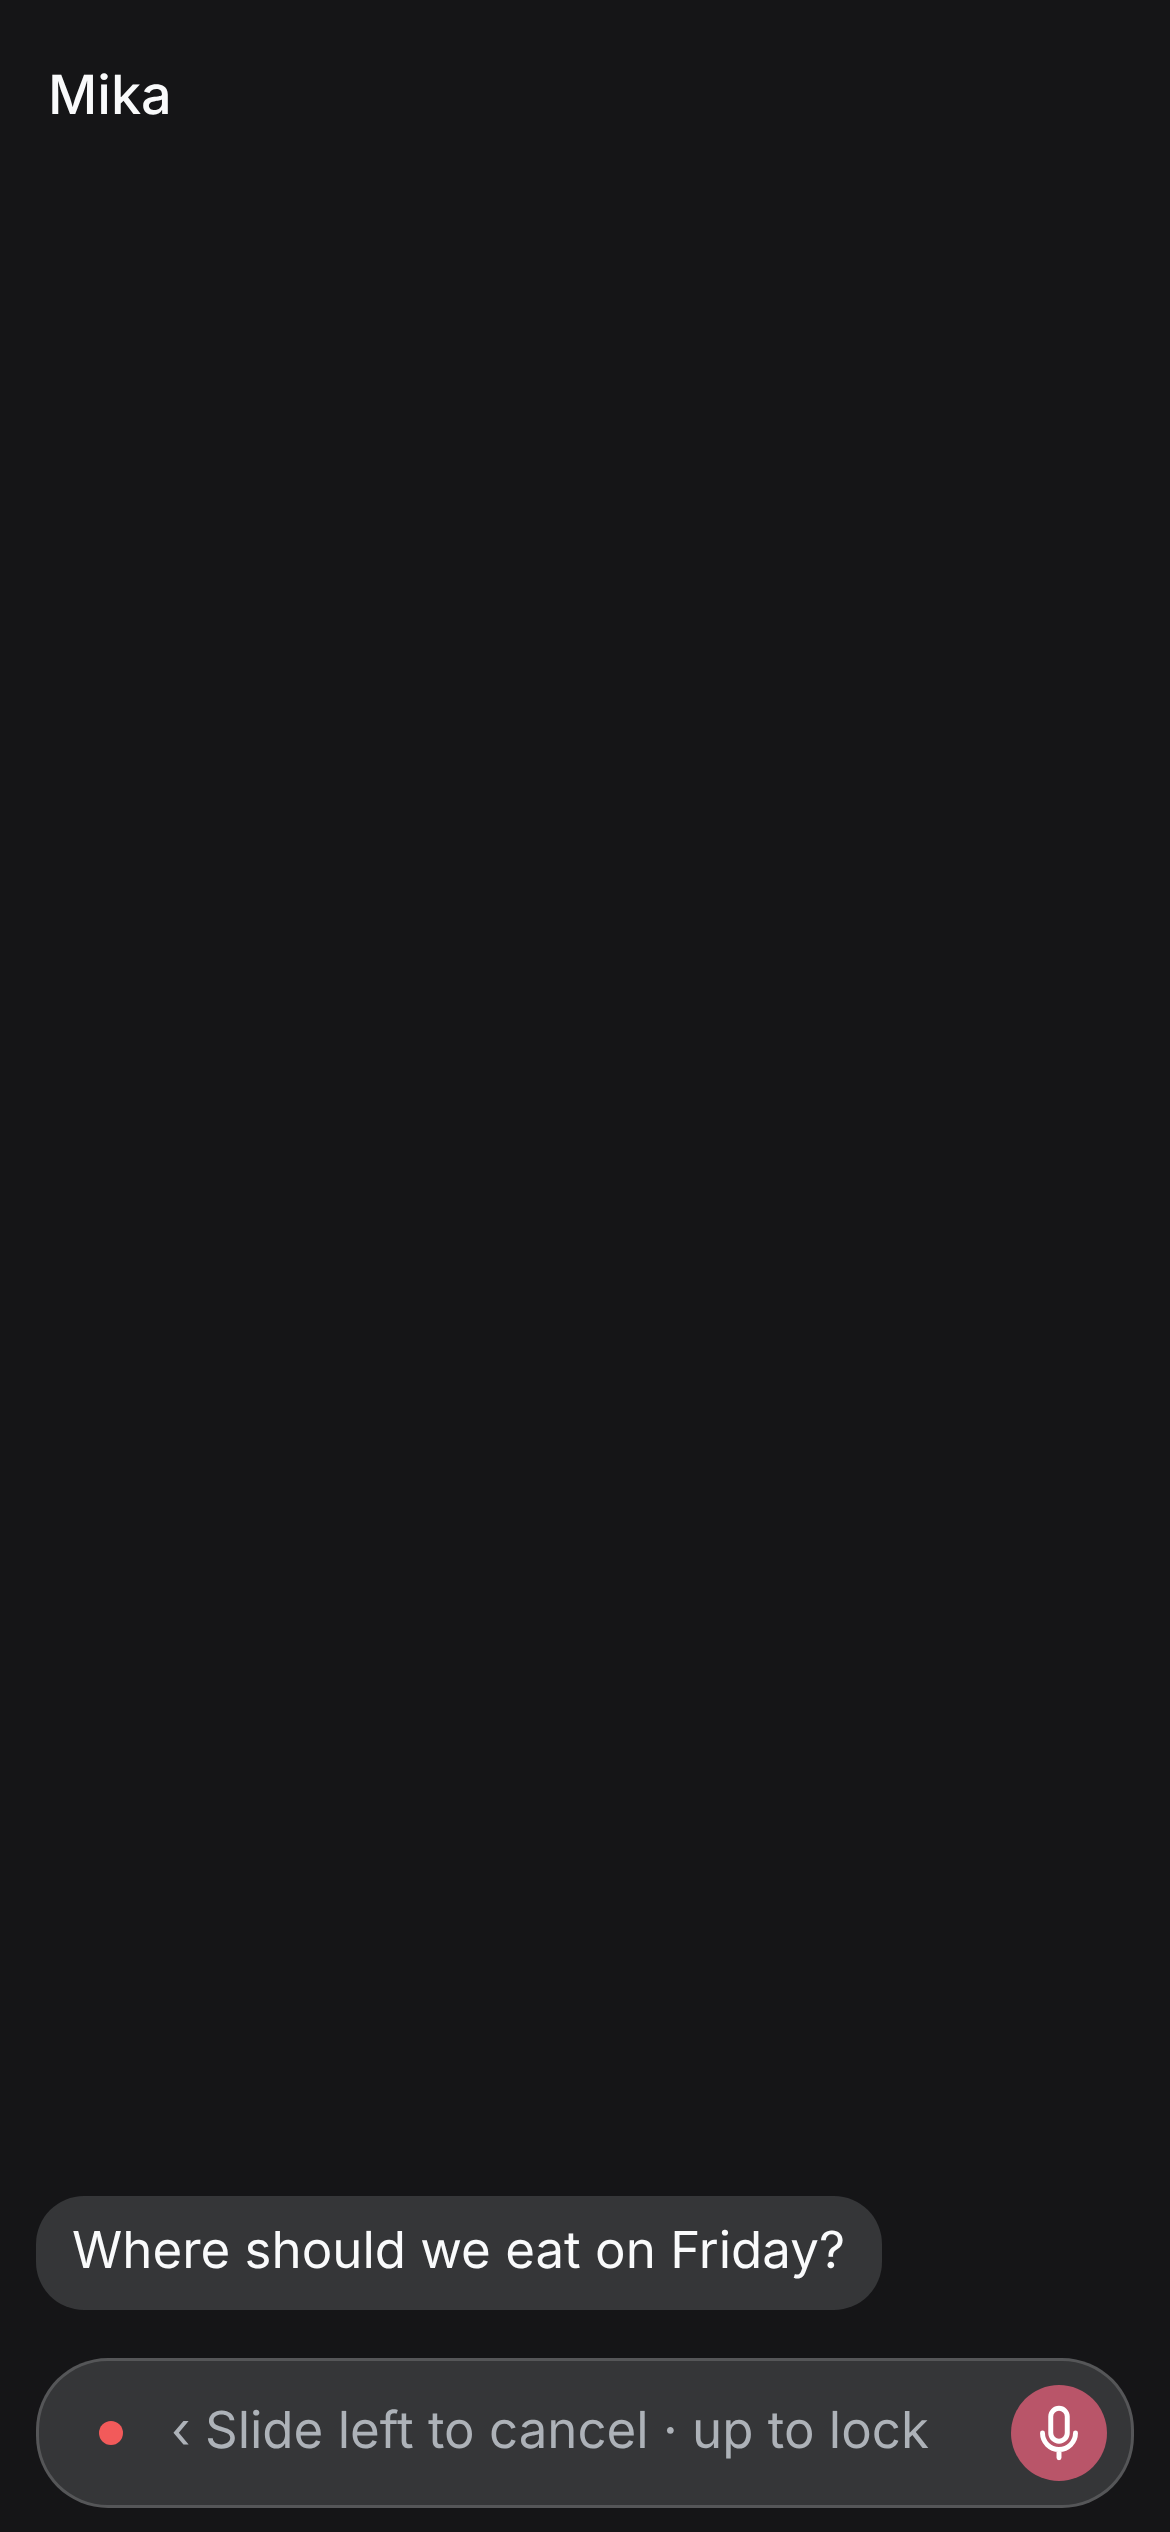
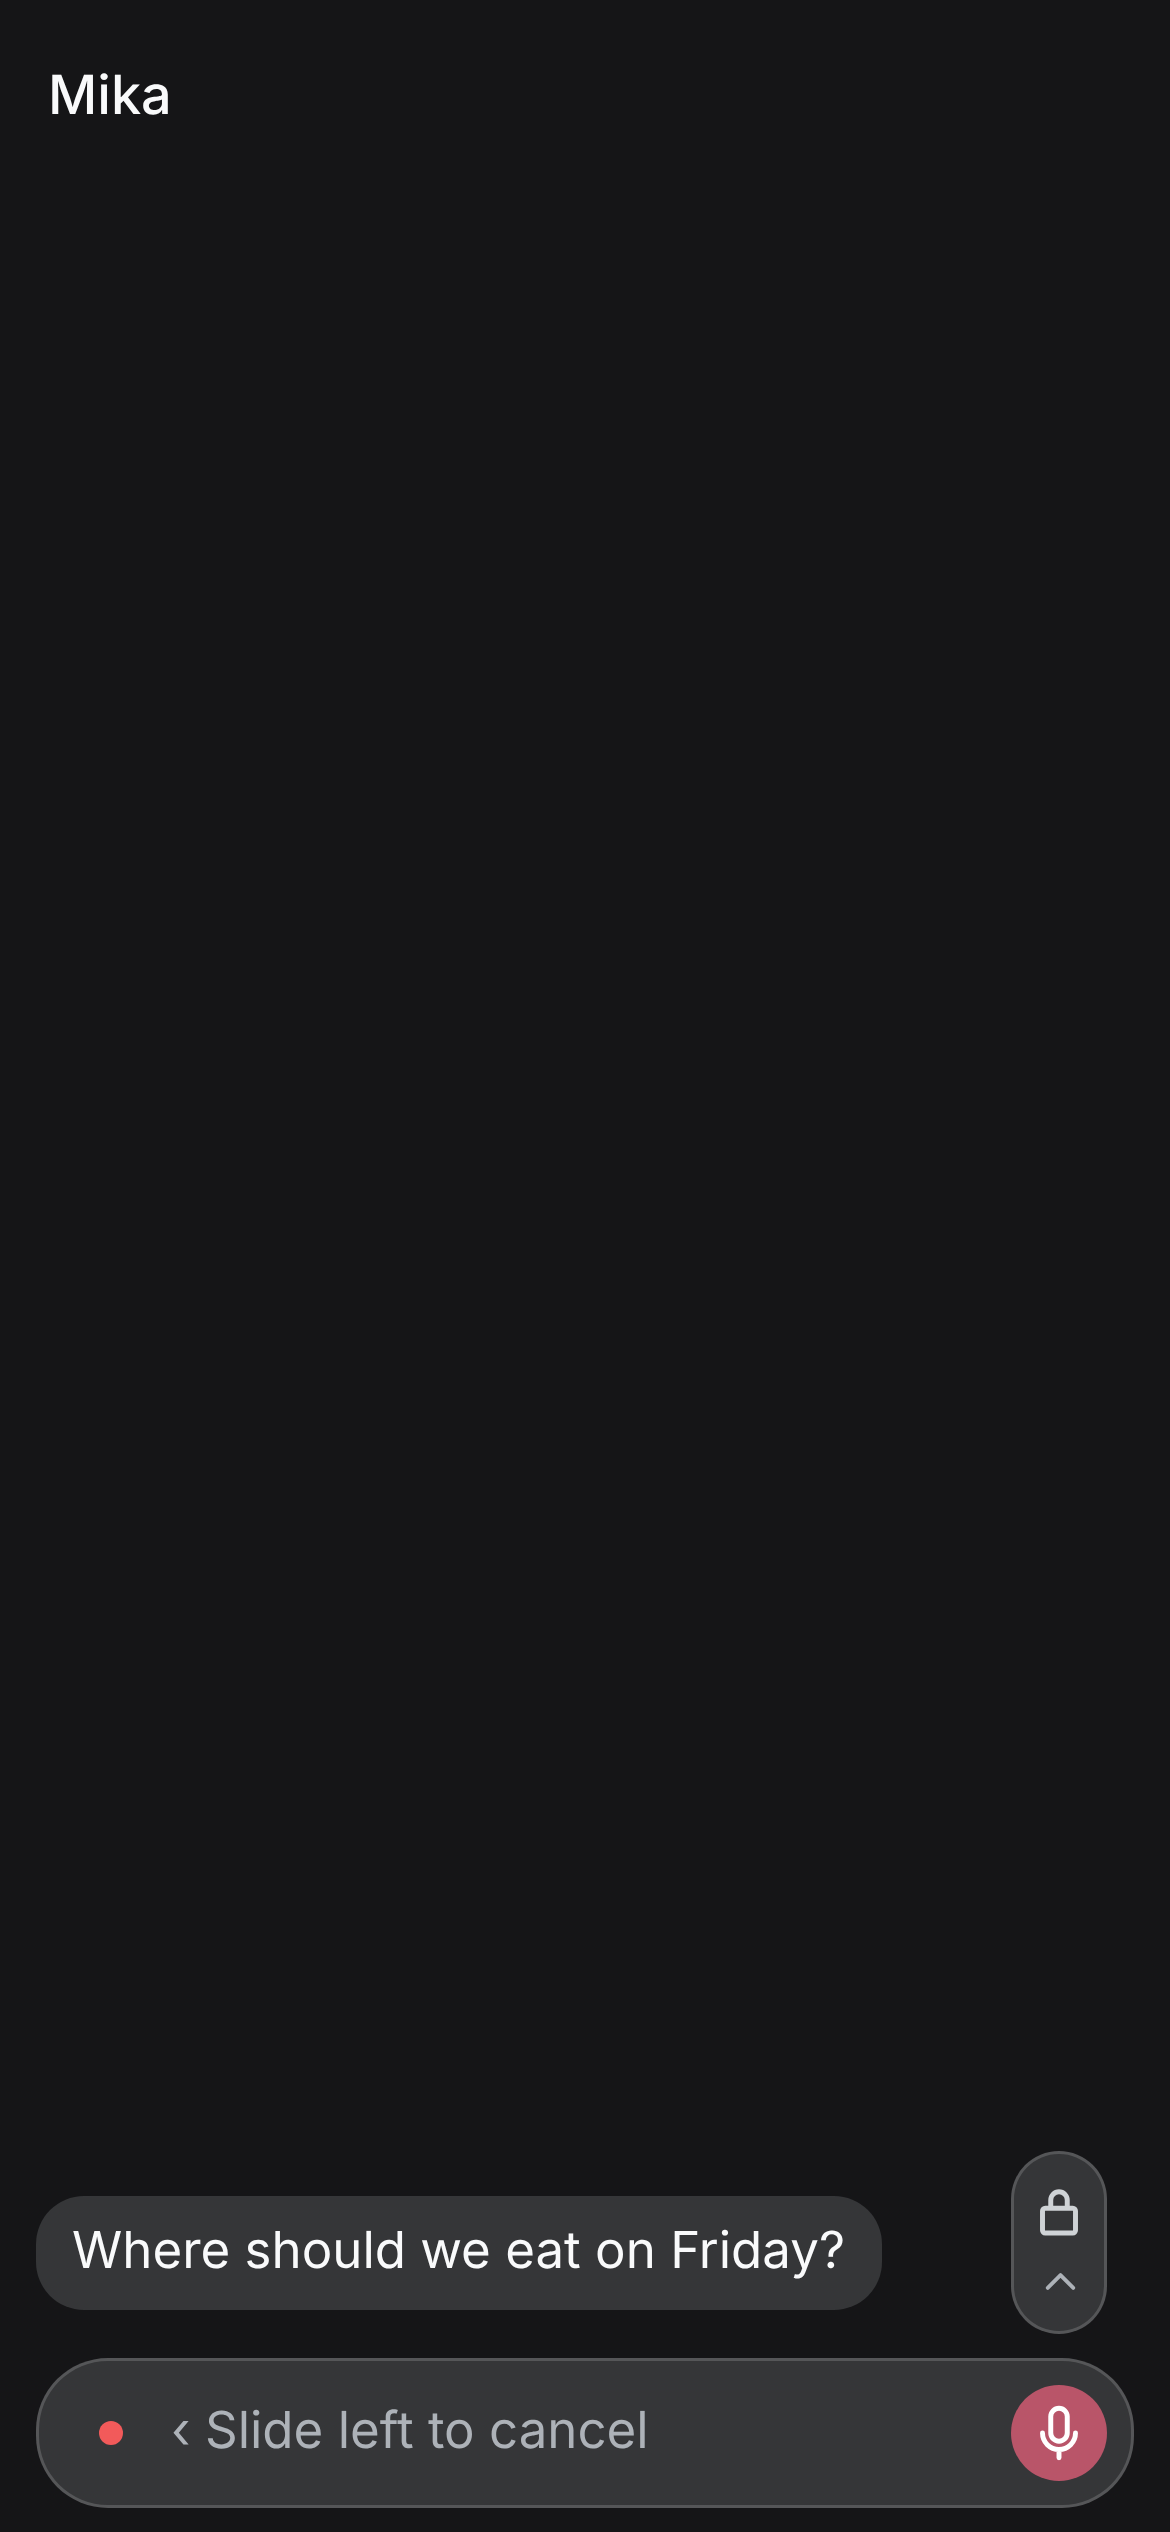
Stack the mobile composer when the text wraps, and show a lock while holding the mic
Like the web composer, the pill switches to the stacked layout (field on
top, a footer row of buttons) once the text no longer fits the one-row
width, measured with a hidden mirror of the text; the field keeps its
instance and focus across the switch. While the mic is held, a lock
pill appears above it, Telegram-style.

Refs #1643

Claude-Session: https://claude.ai/code/session_016S4hxfNPritG9nXakYYehX

Changed region(s): [[0.8615, 0.8424, 0.9538, 0.936], [0.7077, 0.936, 0.8, 0.9672], [0.5846, 0.936, 0.6769, 0.9672]]

diff --git a/apps/mobile/src/ui/chat/composer.tsx b/apps/mobile/src/ui/chat/composer.tsx
@@ -7,6 +7,7 @@ import {
   ScrollView,
   TextInput,
   View,
+  type ViewStyle,
 } from 'react-native';
 import { useSafeAreaInsets } from 'react-native-safe-area-context';
 
@@ -17,8 +18,10 @@ import { Text } from '../primitives/text';
 import {
   ArrowUpIcon,
   CameraIcon,
+  ChevronUpIcon,
   CloseIcon,
   FileIcon,
+  LockIcon,
   MicIcon,
   PhotoIcon,
   PlusIcon,
@@ -236,6 +239,31 @@ function HoldDot() {
   );
 }
 
+function LockHint({ style }: { style: ViewStyle }) {
+  const theme = useDesignTheme();
+  const size = theme.touch - space.x4;
+  return (
+    <View
+      style={[
+        style,
+        {
+          width: size,
+          paddingVertical: space.x3,
+          gap: space.x2,
+          alignItems: 'center',
+          borderRadius: radius.round,
+          borderWidth: edge.hairline,
+          borderColor: theme.color.borderStrong,
+          backgroundColor: theme.color.surface,
+        },
+      ]}
+    >
+      <LockIcon color={theme.color.muted} size={theme.type.title.line} />
+      <ChevronUpIcon color={theme.color.subtle} size={theme.type.body.size} />
+    </View>
+  );
+}
+
 function AttachMenu({ onPick }: { onPick(source: PickSource): void }) {
   const theme = useDesignTheme();
   return (
@@ -319,6 +347,8 @@ export function Composer({
   const [menu, setMenu] = useState(false);
   const [held, setHeld] = useState(false);
   const [contentHeight, setContentHeight] = useState(0);
+  const [pill, setPill] = useState({ width: 0, height: 0 });
+  const [wraps, setWraps] = useState(false);
   const lineHeight = theme.touch - space.x4;
   const inset = space.x3;
   const listening = dictating(dictation);
@@ -333,16 +363,25 @@ export function Composer({
     if (!menu) Keyboard.dismiss();
     setMenu(!menu);
   };
-  const stacked = composerStacked(actions, files.length);
+  const [lastStacked, setLastStacked] = useState(false);
+  const stacked = held ? lastStacked : composerStacked(actions, files.length, wraps);
+  if (stacked !== lastStacked) setLastStacked(stacked);
   const icon = theme.type.title.line;
+  const button = theme.touch - space.x4;
+  const compactWidth = pill.width - 2 * (inset + edge.hairline + button + space.x2);
   const leading = held ? (
-    <HoldDot />
+    <HoldDot key="lead" />
   ) : listening ? (
-    <RoundButton label={t.cancelDictation} filled={false} onPress={onCancelDictation}>
+    <RoundButton key="lead" label={t.cancelDictation} filled={false} onPress={onCancelDictation}>
       <CloseIcon color={theme.color.muted} size={icon} />
     </RoundButton>
   ) : canAttach ? (
-    <RoundButton label={menu ? t.closeAttach : t.attach} filled={false} onPress={toggleMenu}>
+    <RoundButton
+      key="lead"
+      label={menu ? t.closeAttach : t.attach}
+      filled={false}
+      onPress={toggleMenu}
+    >
       {menu ? (
         <CloseIcon color={theme.color.muted} size={icon} />
       ) : (
@@ -352,6 +391,7 @@ export function Composer({
   ) : null;
   const field = (
     <TextInput
+      key="field"
       value={value}
       onChangeText={onChange}
       onFocus={() => setMenu(false)}
@@ -370,7 +410,7 @@ export function Composer({
       editable={!listening}
       onContentSizeChange={(event) => setContentHeight(event.nativeEvent.contentSize.height)}
       style={{
-        flex: stacked ? undefined : 1,
+        flex: 1,
         height: Math.min(Math.max(contentHeight, lineHeight), theme.touch * 3),
         paddingVertical: (lineHeight - theme.type.body.line) / 2,
         paddingHorizontal: stacked || leading === null ? space.x3 : 0,
@@ -416,6 +456,12 @@ export function Composer({
           backgroundColor: theme.color.surface,
           overflow: 'hidden',
         }}
+        onLayout={(event) =>
+          setPill({
+            width: event.nativeEvent.layout.width,
+            height: event.nativeEvent.layout.height,
+          })
+        }
       >
         {files.length > 0 ? (
           <ScrollView
@@ -429,9 +475,13 @@ export function Composer({
             ))}
           </ScrollView>
         ) : null}
-        {stacked ? (
-          <View style={{ padding: inset }}>
+        <View style={{ padding: inset }}>
+          <View style={{ flexDirection: 'row', alignItems: 'flex-end', gap: space.x2 }}>
+            {stacked ? null : leading}
             {field}
+            {stacked ? null : trailing}
+          </View>
+          {stacked ? (
             <View
               style={{
                 flexDirection: 'row',
@@ -444,22 +494,31 @@ export function Composer({
               <View style={{ flex: 1 }} />
               {trailing}
             </View>
-          </View>
-        ) : (
-          <View
-            style={{
-              flexDirection: 'row',
-              alignItems: 'flex-end',
-              gap: space.x2,
-              padding: inset,
-            }}
+          ) : null}
+        </View>
+        {compactWidth > 0 ? (
+          <Text
+            variant="body"
+            accessibilityElementsHidden
+            importantForAccessibility="no-hide-descendants"
+            onLayout={(event) =>
+              setWraps(event.nativeEvent.layout.height > theme.type.body.line * 1.5)
+            }
+            style={{ position: 'absolute', opacity: 0, width: compactWidth, left: 0, top: 0 }}
           >
-            {leading}
-            {field}
-            {trailing}
-          </View>
-        )}
+            {value === '' ? ' ' : value}
+          </Text>
+        ) : null}
       </View>
+      {held ? (
+        <LockHint
+          style={{
+            position: 'absolute',
+            right: space.x4 + edge.hairline + inset,
+            bottom: Math.max(insets.bottom, space.x3) + pill.height + space.x3,
+          }}
+        />
+      ) : null}
       {menu && canAttach && !listening ? (
         <AttachMenu
           onPick={(source) => {

diff --git a/apps/mobile/src/ui/strings.ts b/apps/mobile/src/ui/strings.ts
@@ -121,7 +121,7 @@ const en = {
   cancelDictation: 'Cancel dictation',
   dictationStarting: 'Starting the microphone…',
   dictationListening: 'Listening…',
-  dictationHoldHint: '‹ Slide left to cancel · up to lock',
+  dictationHoldHint: '‹ Slide left to cancel',
   dictateHint: 'Tap to dictate, or hold to talk and release to stop.',
   dictationDenied:
     'DeepSeekBot cannot use the microphone or speech recognition. Allow both in the phone settings to dictate.',
@@ -309,7 +309,7 @@ const zh: typeof en = {
   cancelDictation: '取消语音输入',
   dictationStarting: '正在打开麦克风…',
   dictationListening: '正在听…',
-  dictationHoldHint: '‹ 左滑取消 · 上滑锁定',
+  dictationHoldHint: '‹ 左滑取消',
   dictateHint: '点按开始语音输入，或按住说话、松开结束。',
   dictationDenied: 'DeepSeekBot 无法使用麦克风或语音识别。请在手机设置里允许这两项后再语音输入。',
   dictationUnavailable: '这台手机现在无法使用语音识别。',

diff --git a/apps/mobile/test/dictation.test.ts b/apps/mobile/test/dictation.test.ts
@@ -99,11 +99,12 @@ describe('composer actions', () => {
 
 describe('composer layout', () => {
   it('keeps one row for a single trailing button and stacks two rows otherwise', () => {
-    expect(composerStacked(['mic'], 0)).toBe(false);
-    expect(composerStacked(['send'], 0)).toBe(false);
-    expect(composerStacked(['mic', 'send'], 1)).toBe(true);
-    expect(composerStacked(['send'], 1)).toBe(true);
-    expect(composerStacked(['stop'], 0)).toBe(false);
+    expect(composerStacked(['mic'], 0, false)).toBe(false);
+    expect(composerStacked(['send'], 0, false)).toBe(false);
+    expect(composerStacked(['mic', 'send'], 1, false)).toBe(true);
+    expect(composerStacked(['send'], 1, false)).toBe(true);
+    expect(composerStacked(['stop'], 0, false)).toBe(false);
+    expect(composerStacked(['send'], 0, true)).toBe(true);
   });
 });
 

diff --git a/apps/mobile/src/ui/shell/icons.tsx b/apps/mobile/src/ui/shell/icons.tsx
@@ -58,6 +58,19 @@ export function ChevronDownIcon(props: IconProps) {
   return <Glyph {...props} d="m6 9 6 6 6-6" />;
 }
 
+export function ChevronUpIcon(props: IconProps) {
+  return <Glyph {...props} d="m6 15 6-6 6 6" />;
+}
+
+export function LockIcon(props: IconProps) {
+  return (
+    <Glyph
+      {...props}
+      d="M7 11h10a1 1 0 0 1 1 1v7a1 1 0 0 1-1 1H7a1 1 0 0 1-1-1v-7a1 1 0 0 1 1-1Zm2 0V8a3 3 0 0 1 6 0v3"
+    />
+  );
+}
+
 export function ArrowUpIcon(props: IconProps) {
   return <Glyph {...props} d="M12 19V5m-6 6 6-6 6 6" />;
 }

diff --git a/apps/mobile/src/ui/chat/dictation.ts b/apps/mobile/src/ui/chat/dictation.ts
@@ -71,8 +71,8 @@ export function composerActions(input: {
   ];
 }
 
-export function composerStacked(actions: ComposerAction[], files: number): boolean {
-  return files > 0 || actions.length > 1;
+export function composerStacked(actions: ComposerAction[], files: number, wraps: boolean): boolean {
+  return wraps || files > 0 || actions.length > 1;
 }
 
 export const voiceGesture = { holdMs: 300, cancelDrag: 80, lockDrag: 60 } as const;

diff --git a/apps/mobile/DESIGN.md b/apps/mobile/DESIGN.md
@@ -61,10 +61,10 @@ References:
   - A decided card collapses to one line. A card decided on another device says so.
 - While the Bot works, a status strip above the composer shows the current step and a **Stop** button. Tapping it shows the steps.
 - The composer is a pill: **+** for attachments, the placeholder "Message {Bot}", and a mic that becomes Send once there is text.
-  - With one trailing button (the mic or Send) the pill is one row: **+**, the field and the button, bottom-aligned as the field grows. With more (attached files, or the mic next to Send) it stacks like Claude: the field on top at full width, and a row below with **+** (or **×**) on the left and the buttons on the right.
+  - With one trailing button (the mic or Send) the pill is one row: **+**, the field and the button, bottom-aligned as the field grows. When the text no longer fits that one row, or with more (attached files, or the mic next to Send), it stacks like the web composer: the field on top at full width, and a row below with **+** (or **×**) on the left and the buttons on the right.
   - **+** opens Photos, Camera and File below the pill. Picked files show as removable tiles inside the pill, up to 10 per message. Send appears once there is text or a file.
   - Sending uploads each file to the Host first. A retry keeps the uploads that already finished.
-  - The mic dictates with the phone's speech recognizer, and the words fill the field so the Human edits them before sending. Like Telegram's voice button: hold the mic to talk and release to stop; while holding, slide left to cancel or up to lock. A tap works like a lock: it keeps listening until **■** stops it or the **×** that replaces **+** cancels it and clears the text. Dictation stays in the same row, and its status shows as the field's placeholder. A refused microphone or speech permission shows a notice and leaves the mic in place.
+  - The mic dictates with the phone's speech recognizer, and the words fill the field so the Human edits them before sending. Like Telegram's voice button: hold the mic to talk and release to stop; while holding, a lock appears above the mic: slide left to cancel or up to lock. A tap works like a lock: it keeps listening until **■** stops it or the **×** that replaces **+** cancels it and clears the text. Dictation stays in the same row, and its status shows as the field's placeholder. A refused microphone or speech permission shows a notice and leaves the mic in place.
   - The status strip's **Stop** waits on Host support.
 
 **Bot profile** (a form sheet)
